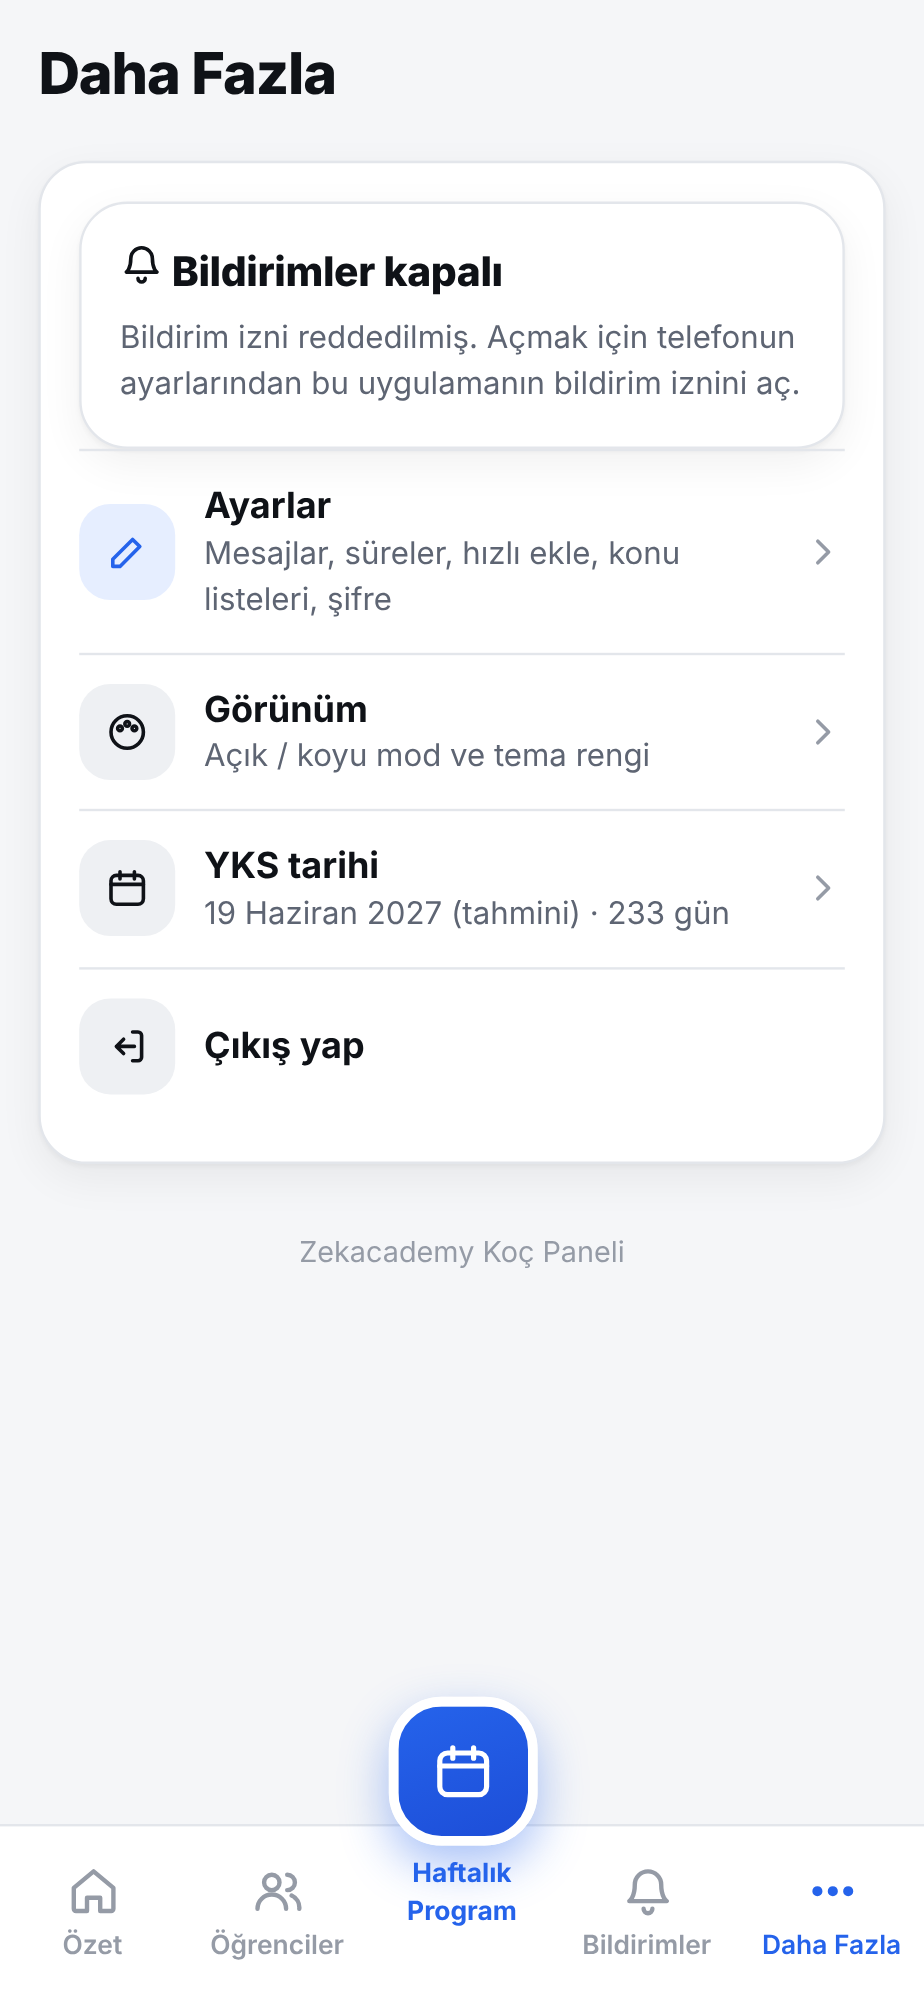
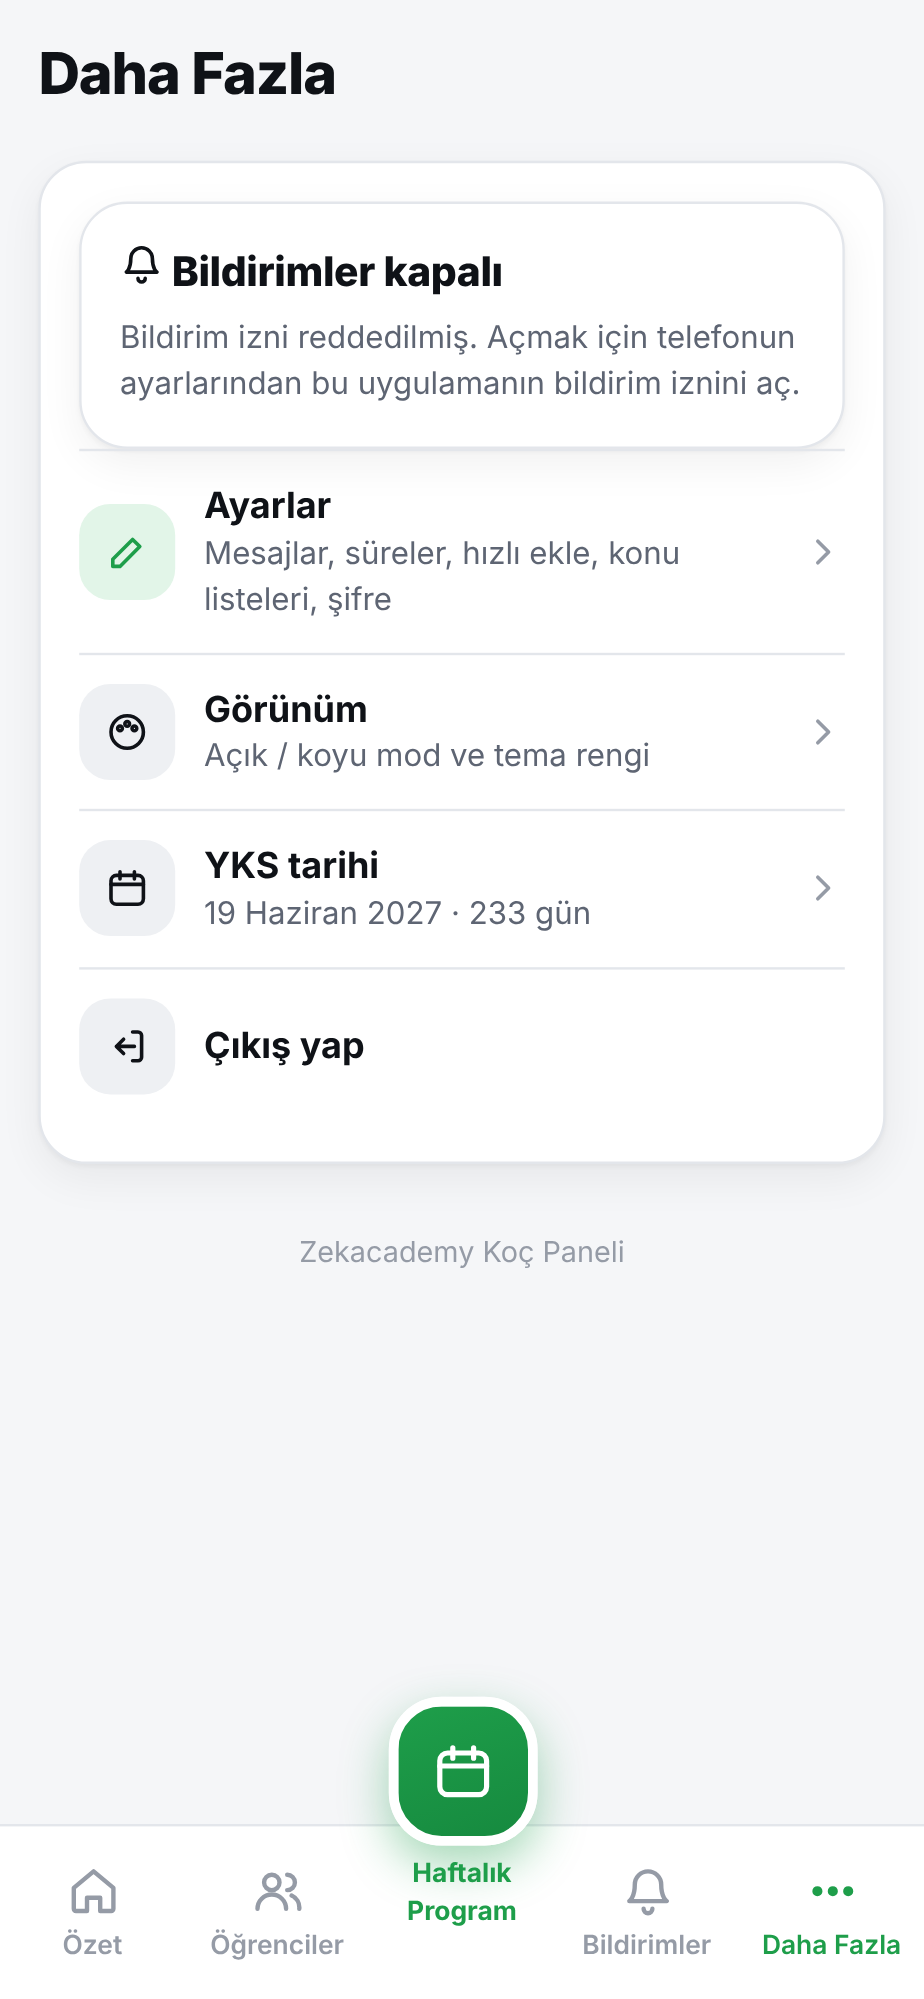
Android'de alt menü telefonun düğme çubuğunun üstünde kalsın; sayfalar hep en son sürümle açılsın
- Yüklü uygulama ekranın en altına kadar çiziliyorsa alt menüye çubuk kadar boşluk bırakılır
- Ana sayfa adresi (/) tarayıcıda 1 saat önbellekte kalıyordu; artık her açılışta yenisi alınır

Claude-Session: https://claude.ai/code/session_01XU59kfYKCcNZXKL7rJjU3f

diff --git a/public/index.html b/public/index.html
@@ -3,8 +3,7 @@
 <head>
 <meta charset="utf-8">
 <meta name="viewport" content="width=device-width,initial-scale=1,viewport-fit=cover">
-<script>/* Android: sistem gezinme çubuğunun altına çizme (alt menü kesilmesin) */
-if(/android/i.test(navigator.userAgent)) document.querySelector('meta[name=viewport]').setAttribute('content','width=device-width,initial-scale=1');</script>
+
 <script>/* Tema: sayfa çizilmeden uygula (varsayılan açık mod, yeşil) */
 (function(){var t={};try{t=JSON.parse(localStorage.getItem("zk-theme")||"{}")}catch(e){}if(!t.v){t={mode:"light",accent:"green"}}var r=document.documentElement;if(t.mode==="light")r.classList.add("m-light");if(t.mode==="dark")r.classList.add("m-dark");r.setAttribute("data-accent",t.accent||"green")})();</script>
 <title>Zekacademy</title>
@@ -23,7 +22,8 @@ if(/android/i.test(navigator.userAgent)) document.querySelector('meta[name=viewp
 <link rel="stylesheet" href="https://fonts.googleapis.com/css2?family=Plus+Jakarta+Sans:wght@400;500;600;700;800&display=swap">
 <style>
 html{-webkit-text-size-adjust:100%}
-:root{padding-top:env(safe-area-inset-top,0px);padding-bottom:env(safe-area-inset-bottom,0px)}
+:root{--sab:env(safe-area-inset-bottom,0px)}
+:root{padding-top:env(safe-area-inset-top,0px);padding-bottom:var(--sab)}
 body{margin:0}
 [hidden]{display:none!important}
 img{max-width:100%}
@@ -75,7 +75,7 @@ svg.i.sm{width:18px;height:18px}
 svg.i.xs{width:15px;height:15px}
 
 /* Kabuk */
-.shell{padding-bottom:calc(var(--navh) + 28px + env(safe-area-inset-bottom,0px))}
+.shell{padding-bottom:calc(var(--navh) + 28px + var(--sab))}
 .page{max-width:720px;margin:0 auto;padding-left:max(16px,env(safe-area-inset-left,0px));padding-right:max(16px,env(safe-area-inset-right,0px));padding-block:8px 24px;display:flex;flex-direction:column;gap:16px}
 .page.wide{max-width:1080px}
 .top{position:sticky;top:env(safe-area-inset-top,0px);z-index:5;background:var(--bg)}
@@ -92,7 +92,7 @@ body::before{content:"";position:fixed;inset:0 0 auto;height:env(safe-area-inset
 .spacer{flex:1}
 
 /* Alt menü */
-.nav{position:fixed;left:0;right:0;bottom:0;z-index:8;background:var(--surface);border-top:1px solid var(--line);padding-bottom:env(safe-area-inset-bottom,0px);padding-left:env(safe-area-inset-left,0px);padding-right:env(safe-area-inset-right,0px)}
+.nav{position:fixed;left:0;right:0;bottom:0;z-index:8;background:var(--surface);border-top:1px solid var(--line);padding-bottom:var(--sab);padding-left:env(safe-area-inset-left,0px);padding-right:env(safe-area-inset-right,0px)}
 .navin{max-width:720px;margin:0 auto;height:var(--navh);display:grid;grid-template-columns:repeat(5,1fr);grid-template-rows:minmax(0,1fr);align-items:end;padding-bottom:8px;box-sizing:border-box}
 .nb{border:0;background:none;display:flex;flex-direction:column;align-items:center;gap:4px;font-size:11px;font-weight:600;color:var(--faint);padding:6px 2px}
 .nb[aria-current="page"]{color:var(--ac)}
@@ -324,12 +324,12 @@ input:disabled{opacity:.5}
 
 /* Sayfa altı katmanı */
 .ov{position:fixed;inset:0;z-index:20;background:rgba(5,7,10,.5);display:flex;align-items:flex-end;justify-content:center}
-.sheet{background:var(--bg);width:min(560px,100%);max-height:92vh;overflow:auto;border-radius:26px 26px 0 0;padding:10px 18px calc(22px + env(safe-area-inset-bottom,0px));display:flex;flex-direction:column;gap:14px}
+.sheet{background:var(--bg);width:min(560px,100%);max-height:92vh;overflow:auto;border-radius:26px 26px 0 0;padding:10px 18px calc(22px + var(--sab));display:flex;flex-direction:column;gap:14px}
 .sheet::before{content:"";width:40px;height:5px;border-radius:3px;background:var(--line);align-self:center;flex:none}
 .sheet h3{margin:0;font-size:20px;font-weight:800}
 .sheet .acts{display:flex;gap:10px;justify-content:flex-end;flex-wrap:wrap}
 @media (min-width:700px){.ov{align-items:center}.sheet{border-radius:24px;padding-bottom:22px}}
-.toast{position:fixed;left:50%;transform:translateX(-50%);bottom:calc(var(--navh) + 30px + env(safe-area-inset-bottom,0px));background:var(--fg);color:var(--bg);padding:10px 16px;border-radius:12px;font-size:14px;font-weight:700;z-index:30;max-width:calc(100% - 32px);text-align:center}
+.toast{position:fixed;left:50%;transform:translateX(-50%);bottom:calc(var(--navh) + 30px + var(--sab));background:var(--fg);color:var(--bg);padding:10px 16px;border-radius:12px;font-size:14px;font-weight:700;z-index:30;max-width:calc(100% - 32px);text-align:center}
 
 /* Giriş */
 .auth{min-height:100vh;display:grid;grid-template-columns:minmax(0,1fr)}
@@ -389,5 +389,13 @@ input:disabled{opacity:.5}
 <noscript>Bu uygulama için JavaScript gerekli.</noscript>
 <script type="module" src="/app.js"></script>
 <script>if("serviceWorker" in navigator){window.addEventListener("load",()=>navigator.serviceWorker.register("/sw.js").catch(()=>{}));}</script>
+<script>/* Android: uygulama tam ekran açıldığında telefonun alt düğme çubuğu menünün üstüne binmesin */
+(function(){ if(!/android/i.test(navigator.userAgent)) return;
+  function fix(){ var standalone = matchMedia("(display-mode: standalone)").matches;
+    var p=document.createElement("div"); p.style.cssText="position:fixed;bottom:0;height:0;padding-bottom:env(safe-area-inset-bottom,0px);visibility:hidden"; document.body.appendChild(p);
+    var inset=p.offsetHeight; p.remove();
+    var cover = (screen.height - innerHeight) < 56; /* sayfa ekranın en altına kadar çiziliyor */
+    document.documentElement.style.setProperty("--sab", (standalone && cover && inset===0) ? "48px" : "env(safe-area-inset-bottom,0px)"); }
+  if(document.readyState==="loading") addEventListener("DOMContentLoaded", fix); else fix(); addEventListener("resize", fix); })();</script>
 </body>
 </html>

diff --git a/public/sw.js b/public/sw.js
@@ -1,12 +1,13 @@
 /* Zekacademy service worker: uygulamayı kurulabilir yapar, sayfaları ağdan alır (her zaman güncel), ağ yoksa son kopyayı gösterir. */
-const CACHE = "zk-v4";
+const CACHE = "zk-v5";
 const SHELL = ["/", "/index.html", "/app.js", "/firebase-config.js", "/manifest.webmanifest", "/icons/icon-192-v2.png"];
 self.addEventListener("install", e => { e.waitUntil(caches.open(CACHE).then(c => c.addAll(SHELL)).then(() => self.skipWaiting())); });
 self.addEventListener("activate", e => { e.waitUntil(caches.keys().then(ks => Promise.all(ks.filter(k => k !== CACHE).map(k => caches.delete(k)))).then(() => self.clients.claim())); });
 self.addEventListener("fetch", e => {
   const u = new URL(e.request.url);
   if (e.request.method !== "GET" || u.origin !== location.origin) return;
-  e.respondWith(fetch(e.request).then(r => { const copy = r.clone(); caches.open(CACHE).then(c => c.put(e.request, copy)); return r; }).catch(() => caches.match(e.request).then(m => m || caches.match("/index.html"))));
+  const fresh = u.pathname.startsWith("/icons/") ? fetch(e.request) : fetch(e.request, { cache: "no-cache" }); /* tarayıcı önbelleğini atla, hep son sürüm */
+  e.respondWith(fresh.then(r => { const copy = r.clone(); caches.open(CACHE).then(c => c.put(e.request, copy)); return r; }).catch(() => caches.match(e.request).then(m => m || caches.match("/index.html"))));
 });
 
 /* Telefon bildirimleri (Firebase Cloud Messaging, veri mesajı) */
